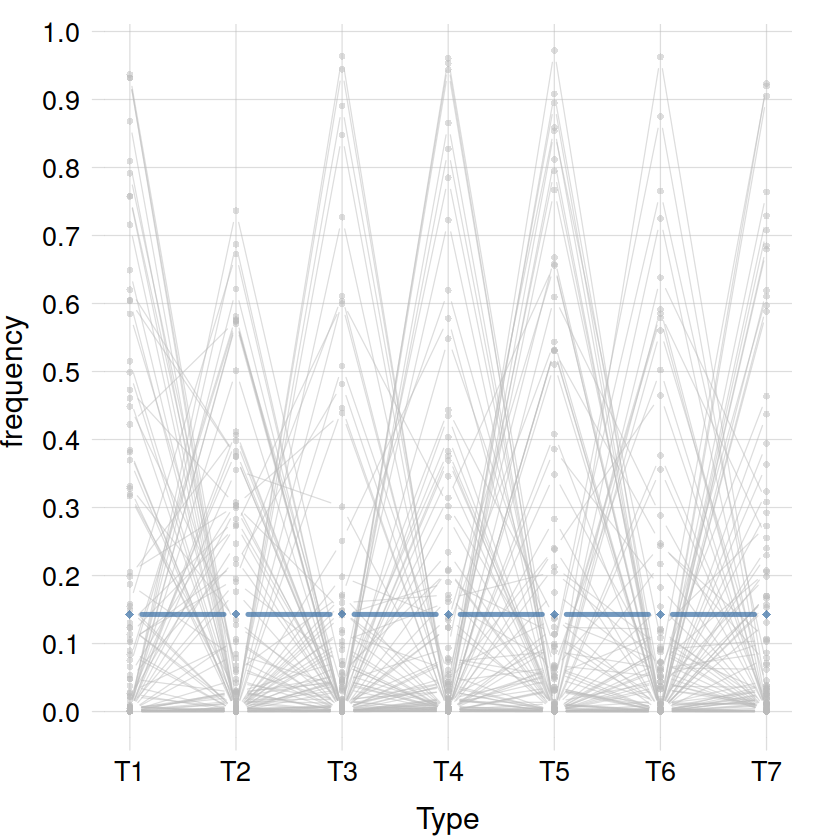
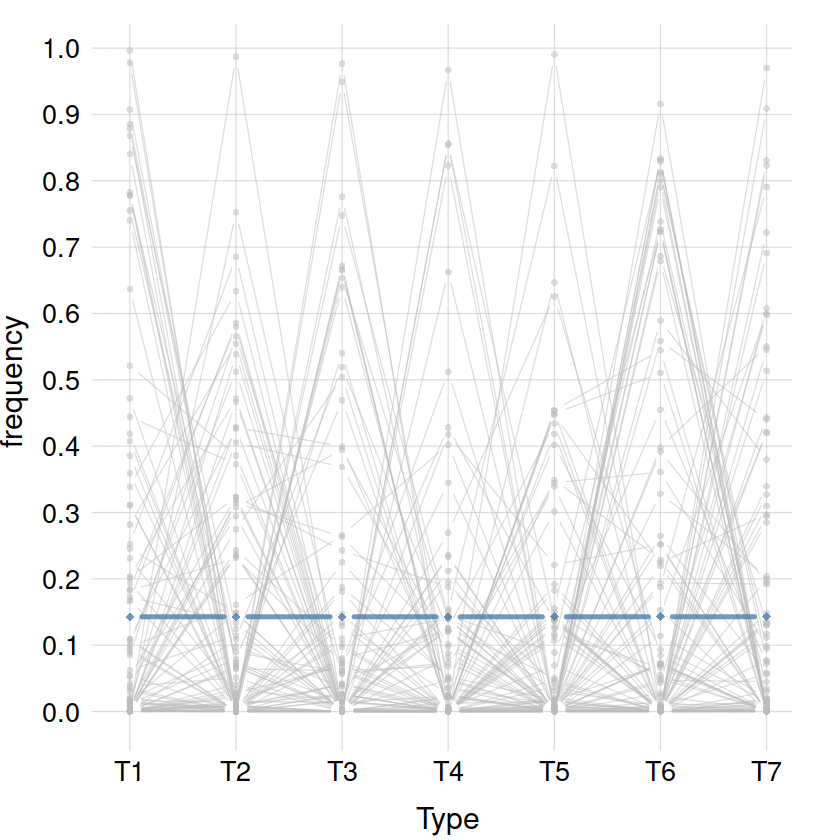
update population inference

diff --git a/docs/glass_application_R.html b/docs/glass_application_R.html
@@ -428,7 +428,7 @@ pre > code.sourceCode > span > a:first-child::before { text-decoration: underlin
   <li><a href="#preliminary-inferences-about-the-population" id="toc-preliminary-inferences-about-the-population" class="nav-link" data-scroll-target="#preliminary-inferences-about-the-population">Preliminary inferences about the population</a></li>
   <li><a href="#preliminary-inferences-about-units" id="toc-preliminary-inferences-about-units" class="nav-link" data-scroll-target="#preliminary-inferences-about-units">Preliminary inferences about units</a></li>
   </ul></li>
-  <li><a href="#the-agent-learns-from-the-sample-data" id="toc-the-agent-learns-from-the-sample-data" class="nav-link" data-scroll-target="#the-agent-learns-from-the-sample-data"><span class="header-section-number">3</span> The agent learns from the sample data</a>
+  <li><a href="#the-agent-learns-from-data" id="toc-the-agent-learns-from-data" class="nav-link" data-scroll-target="#the-agent-learns-from-data"><span class="header-section-number">3</span> The agent learns from data</a>
   <ul class="collapse">
   <li><a href="#learning-from-the-sample-data" id="toc-learning-from-the-sample-data" class="nav-link" data-scroll-target="#learning-from-the-sample-data">Learning from the sample data</a></li>
   <li><a href="#inferences-about-the-population" id="toc-inferences-about-the-population" class="nav-link" data-scroll-target="#inferences-about-the-population">Inferences about the population</a></li>
@@ -647,7 +647,7 @@ pre > code.sourceCode > span > a:first-child::before { text-decoration: underlin
 </div>
 <div class="page-columns page-full"><p>This plot shows the <span class="blue">probability distribution</span> for the next unit in <span class="blue">blue</span>, together with a sample of 100 possible frequency distributions for the <span style="display:inline-block;"><span class="math inline">\(\mathit{Type}\)</span></span> variate over the full population. Note that samples are drawn anew every time, so they can look somewhat differently from time to time.<a href="#fn2" class="footnote-ref" id="fnref2" role="doc-noteref"><sup>2</sup></a></p><div class="no-row-height column-margin column-container"><li id="fn2"><p><sup>2</sup>&nbsp;To have reproducible plots, use <code>set.seed(314)</code> (or any integer you like) before calling the plot function.</p></li></div></div>
 <p>The agent’s answer is that in the next unit we can observe any <span style="display:inline-block;"><span class="math inline">\(\mathit{Type}\)</span></span> value with equal probability. Do you think this is a reasonable answer?</p>
-<p>The plot above and the information is represents are a very useful for inference purposes: not only it gives the probability for the next observation, but it also gives an idea of how such a probability could change in the future, as more data are collected and knowledge of the population’s frequency distribution becomes more precise.</p>
+<p>The plot above and the information it represents are very useful for inference purposes: not only they give the probability for the next observation, but also an idea of how such a probability could change in the future, as more data are collected and knowledge of the population’s frequency distribution becomes more precise.</p>
 <div class="callout callout-style-default callout-caution no-icon callout-titled">
 <div class="callout-header d-flex align-content-center">
 <div class="callout-icon-container">
@@ -663,8 +663,8 @@ pre > code.sourceCode > span > a:first-child::before { text-decoration: underlin
 </div>
 </section>
 </section>
-<section id="the-agent-learns-from-the-sample-data" class="level2" data-number="3">
-<h2 data-number="3" class="anchored" data-anchor-id="the-agent-learns-from-the-sample-data"><span class="header-section-number">3</span> The agent learns from the sample data</h2>
+<section id="the-agent-learns-from-data" class="level2" data-number="3">
+<h2 data-number="3" class="anchored" data-anchor-id="the-agent-learns-from-data"><span class="header-section-number">3</span> The agent learns from data</h2>
 <section id="learning-from-the-sample-data" class="level3">
 <h3 class="anchored" data-anchor-id="learning-from-the-sample-data">Learning from the sample data</h3>
 <p>Now let’s give the agent the data from the sample of 214 glass fragments. This is done again with the <code>finfo()</code> function, but providing the <code>data</code> argument, which can be the name of the data file:</p>
